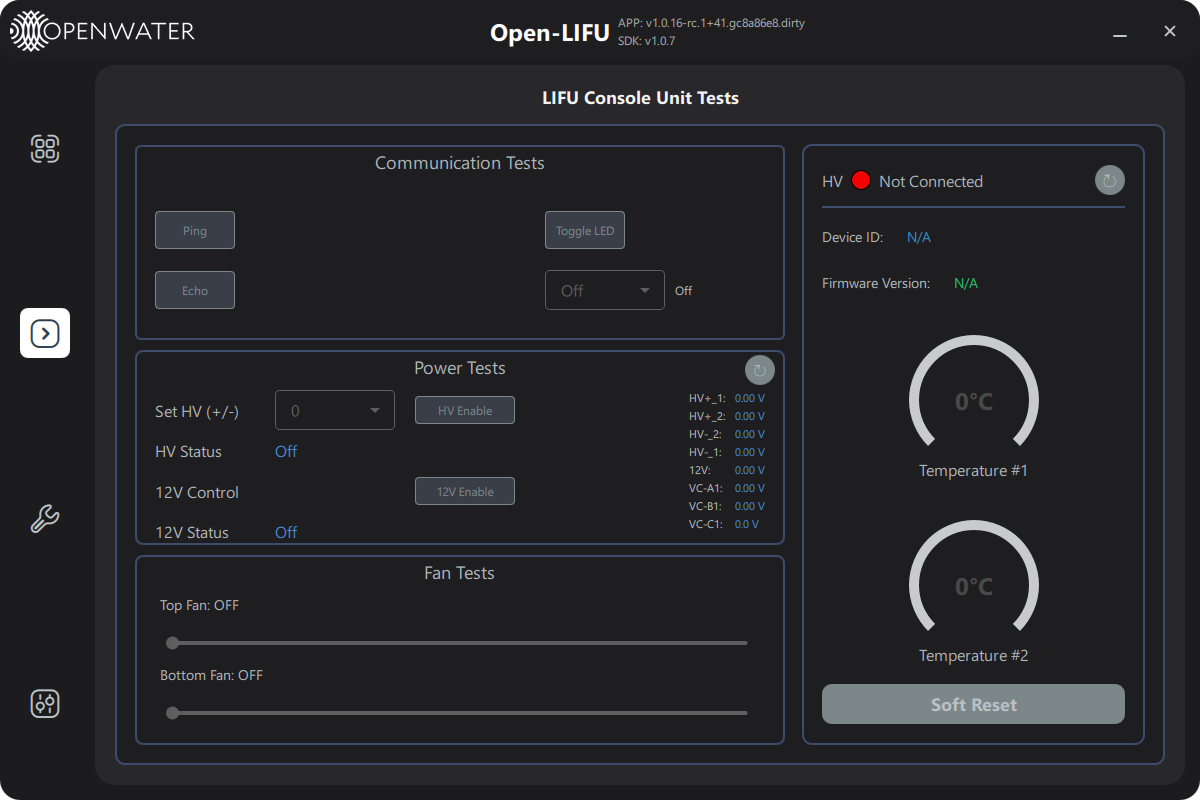
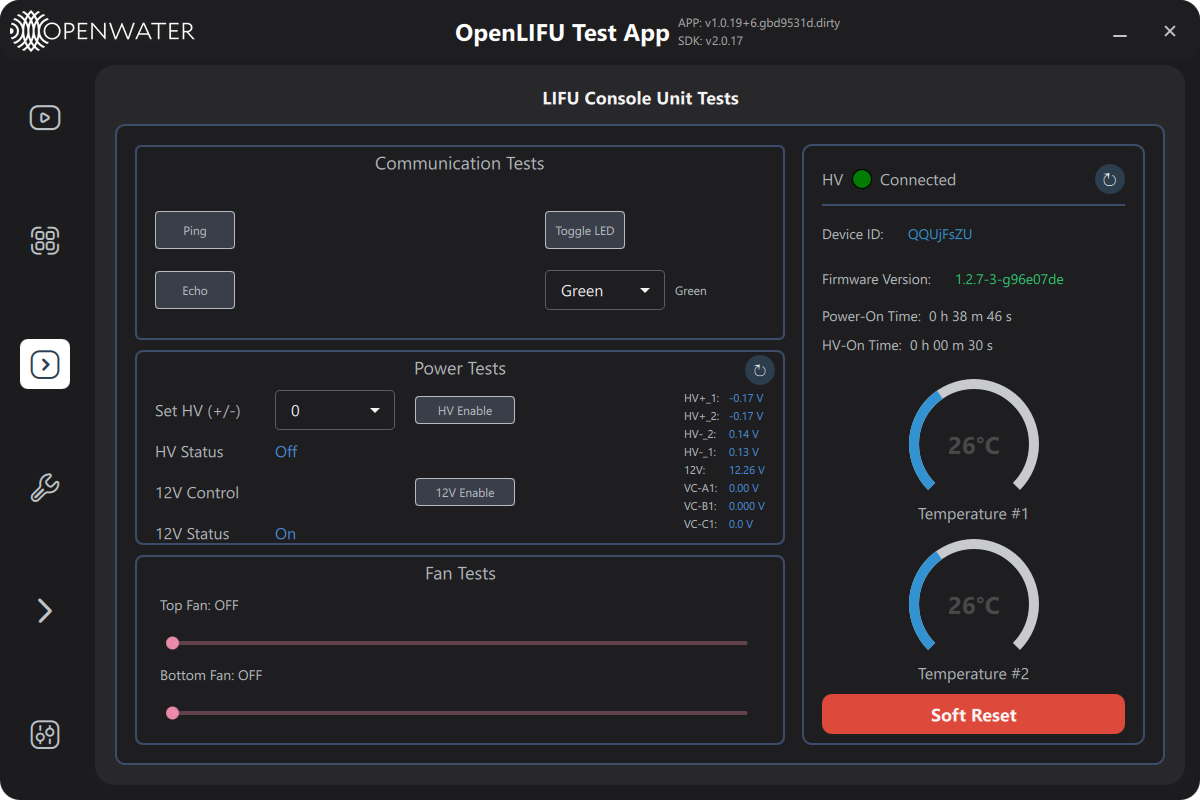
feat(console): show console power-on and HV-on odometer
The Console page's HV panel and the Support page's Hardware Monitor
card now show the console's lifetime Power-On Time and HV-On Time
(HVController.get_odometer(), OW_POWER_GET_ODO). The values are read
on connect, on refresh, and when HV turns on or off. The Console page
ignores the 1 Hz telemetry re-emits of power status, so the odometer
is not polled every second. Both totals are also added to the Support
diagnostics system info and report.

Both pages show N/A when the installed SDK has no get_odometer() or
the console firmware predates the odometer, so older stacks keep
working. The odometer rows on the Console page are plain Text, and
the temperature gauges sit closer together, so the panel still fits.

Closes #51
Refs OpenwaterHealth/openlifu-console-fw#19

diff --git a/pages/Console.qml b/pages/Console.qml
@@ -15,6 +15,8 @@ Rectangle {
     // Properties for dynamic data
     property string firmwareVersion: "N/A"
     property string deviceId: "N/A"
+    property string powerOnTime: "N/A"
+    property string hvOnTime: "N/A"
     property real temperature1: 0.0
     property real temperature2: 0.0
     property string rgbState: "Off" // Add property for RGB state
@@ -23,6 +25,7 @@ Rectangle {
 
     function updateStates() {
         LIFUConnector.queryHvInfo()
+        LIFUConnector.queryHvOdometer()
         LIFUConnector.queryHvTemperature()
         LIFUConnector.queryPowerStatus() // Query power status
         LIFUConnector.queryRGBState() // Query RGB state
@@ -55,6 +58,8 @@ Rectangle {
             } else {
                 firmwareVersion = "N/A"
                 deviceId = "N/A"
+                powerOnTime = "N/A"
+                hvOnTime = "N/A"
                 temperature1 = 0.0
                 temperature2 = 0.0
                 rgbState = "Off" // Reset RGB state
@@ -74,6 +79,12 @@ Rectangle {
             deviceId = devId
         }
 
+        // Handle odometer response
+        function onHvOdometerReceived(powerOn, hvOn) {
+            powerOnTime = powerOn
+            hvOnTime = hvOn
+        }
+
         // Handle temperature updates
         function onTemperatureHvUpdated(temp1, temp2) {
             temperature1 = temp1
@@ -82,6 +93,9 @@ Rectangle {
 
         // Handle voltage state updates
         function onPowerStatusReceived(v12_state, hv_state) {
+            // Also fires on the 1 Hz telemetry poll; only an HV flip moves the odometer.
+            var hvChanged = (hv_state ? "On" : "Off") !== hvState
+
             if(hv_state)
                 hvState = "On"
             else
@@ -94,6 +108,8 @@ Rectangle {
 
             hvStatus.text = hvState // Update the UI with the new voltage state
             v12Status.text = v12State
+            if (hvChanged)
+                LIFUConnector.queryHvOdometer() // HV-on time moves with the HV state
         }
 
         // Handle voltage readings updates
@@ -892,6 +908,7 @@ Rectangle {
                                     onClicked: {
                                         console.log("Manual Refresh Triggered")
                                         LIFUConnector.queryHvInfo()
+                                        LIFUConnector.queryHvOdometer()
                                         LIFUConnector.queryHvTemperature()
                                     }
 
@@ -942,10 +959,24 @@ Rectangle {
                             }
                         }
 
+                        // Display lifetime odometer (from the console firmware).
+                        // Plain Text keeps these rows short so the panel still fits.
+                        RowLayout {
+                            spacing: 8
+                            Text { text: "Power-On Time:"; color: "#BDC3C7"; font.pixelSize: 14 }
+                            Text { text: powerOnTime; color: "#BDC3C7"; font.pixelSize: 14 }
+                        }
+
+                        RowLayout {
+                            spacing: 8
+                            Text { text: "HV-On Time:"; color: "#BDC3C7"; font.pixelSize: 14 }
+                            Text { text: hvOnTime; color: "#BDC3C7"; font.pixelSize: 14 }
+                        }
+
 
                         ColumnLayout {
                             Layout.alignment: Qt.AlignHCenter 
-                            spacing: 25  
+                            spacing: 0  // tight so the odometer rows above still fit
 
                             // TEMP #1 Widget
                             TemperatureWidget {

diff --git a/pages/Support.qml b/pages/Support.qml
@@ -56,6 +56,8 @@ Rectangle {
     // ── State ─────────────────────────────────────────────────────────
     property string hvFwVersion:   "—"
     property string hvDeviceId:    "—"
+    property string hvPowerOnTime: "—"
+    property string hvHvOnTime:    "—"
     property real   hvTemp1:       0.0
     property real   hvTemp2:       0.0
     property bool   hvTempsReceived: false
@@ -89,6 +91,7 @@ Rectangle {
         onTriggered: {
             if (LIFUConnector.hvConnected) {
                 LIFUConnector.queryHvInfo()
+                LIFUConnector.queryHvOdometer()
                 LIFUConnector.queryHvTemperature()
                 LIFUConnector.getMonitorVoltages()
                 supportPage.diagnosticsJson = LIFUSupportConnector.collectDiagnostics()
@@ -124,6 +127,7 @@ Rectangle {
         refreshing = true
         if (LIFUConnector.hvConnected) {
             LIFUConnector.queryHvInfo()
+            LIFUConnector.queryHvOdometer()
             LIFUConnector.queryHvTemperature()
             LIFUConnector.getMonitorVoltages()
         }
@@ -143,6 +147,10 @@ Rectangle {
         function onHvDeviceInfoReceived(fwVersion, deviceId) {
             supportPage.hvFwVersion = fwVersion
             supportPage.hvDeviceId  = deviceId
+        }
+        function onHvOdometerReceived(powerOn, hvOn) {
+            supportPage.hvPowerOnTime = powerOn
+            supportPage.hvHvOnTime    = hvOn
         }
         function onTxDeviceInfoReceived(modulesList) {
             supportPage.txModules = modulesList.map(function(m) {
@@ -176,6 +184,8 @@ Rectangle {
                 hvQueryTimer.stop()
                 supportPage.hvFwVersion = "—"
                 supportPage.hvDeviceId  = "—"
+                supportPage.hvPowerOnTime = "—"
+                supportPage.hvHvOnTime  = "—"
                 supportPage.hvTemp1     = 0.0
                 supportPage.hvTemp2     = 0.0
                 supportPage.hvTempsReceived = false
@@ -473,6 +483,8 @@ Rectangle {
 
                                 InfoRow { label: "Firmware Version"; value: supportPage.hvFwVersion; valueColor: "#4A90E2" }
                                 InfoRow { label: "Device ID";        value: supportPage.hvDeviceId;  valueColor: "#BDC3C7" }
+                                InfoRow { label: "Power-On Time";    value: supportPage.hvPowerOnTime; valueColor: "#BDC3C7" }
+                                InfoRow { label: "HV-On Time";       value: supportPage.hvHvOnTime;    valueColor: "#BDC3C7" }
                             }
 
                             Rectangle { Layout.fillWidth: true; height: 1; color: "#3E4E6F"; Layout.leftMargin: 16; Layout.rightMargin: 16 }

diff --git a/tests/test_console_odometer.py b/tests/test_console_odometer.py
@@ -1,0 +1,78 @@
+"""Console odometer readout: formatting, old-SDK/old-firmware fallbacks, and
+the ``queryHvOdometer`` slot's signal contract with the Console page."""
+
+from types import SimpleNamespace
+from unittest.mock import MagicMock
+
+import pytest
+
+from openlifu_sdk.io.exceptions import LIFUDeviceError
+
+from lifu.lifu_console import ConsoleMixin, format_duration, read_console_odometer
+from lifu.lifu_support import LIFUSupportConnector
+
+
+@pytest.mark.parametrize("seconds, text", [
+    (0, "0 h 00 m 00 s"),
+    (59, "0 h 00 m 59 s"),
+    (3661, "1 h 01 m 01 s"),
+    (1234 * 3600 + 5 * 60 + 9, "1,234 h 05 m 09 s"),
+])
+def test_format_duration(seconds, text):
+    assert format_duration(seconds) == text
+
+
+def test_read_console_odometer_without_sdk_support_returns_none():
+    # SDKs before the odometer have no HVController.get_odometer().
+    assert read_console_odometer(SimpleNamespace()) is None
+
+
+class _Host(ConsoleMixin):
+    """The bits of LIFUConnector that queryHvOdometer relies on."""
+
+    def __init__(self, hv):
+        self.interface = SimpleNamespace(hvcontroller=hv)
+        self._interface_mutex = MagicMock()
+        self.hvOdometerReceived = MagicMock()
+
+
+def test_query_emits_formatted_totals():
+    hv = SimpleNamespace(get_odometer=lambda: SimpleNamespace(power_on_s=7261, hv_on_s=30))
+    host = _Host(hv)
+    host.queryHvOdometer()
+    host.hvOdometerReceived.emit.assert_called_once_with("2 h 01 m 01 s", "0 h 00 m 30 s")
+    host._interface_mutex.unlock.assert_called_once()
+
+
+@pytest.mark.parametrize("hv", [
+    SimpleNamespace(get_odometer=lambda: None),  # firmware predates the odometer
+    SimpleNamespace(),                           # SDK predates the odometer
+])
+def test_query_emits_na_when_unsupported(hv):
+    host = _Host(hv)
+    host.queryHvOdometer()
+    host.hvOdometerReceived.emit.assert_called_once_with("N/A", "N/A")
+    host._interface_mutex.unlock.assert_called_once()
+
+
+def test_query_device_error_is_logged_not_emitted():
+    def _fail():
+        raise LIFUDeviceError("HV: get_odometer returned device error")
+
+    host = _Host(SimpleNamespace(get_odometer=_fail))
+    host.queryHvOdometer()
+    host.hvOdometerReceived.emit.assert_not_called()
+    host._interface_mutex.unlock.assert_called_once()
+
+
+def test_support_report_lists_odometer_rows():
+    sysinfo = {"console": {"firmware_version": "1.2.8", "power_on_s": 7261, "hv_on_s": 30}}
+    html = LIFUSupportConnector._build_report_html("2026-10-19 12:00:00", {}, sysinfo)
+    assert "HV Power-On Time" in html and "2 h 01 m 01 s" in html
+    assert "HV-On Time" in html and "0 h 00 m 30 s" in html
+
+
+def test_support_report_omits_odometer_rows_when_unsupported():
+    html = LIFUSupportConnector._build_report_html(
+        "2026-10-19 12:00:00", {}, {"console": {"firmware_version": "1.2.7"}})
+    assert "Power-On Time" not in html

diff --git a/lifu/lifu_console.py b/lifu/lifu_console.py
@@ -23,7 +23,23 @@ from openlifu_sdk.io.LIFUConfig import HW_ID_DATA_LENGTH
 
 logger = logging.getLogger(__name__)
 
-__all__ = ["ConsoleMixin"]
+__all__ = ["ConsoleMixin", "format_duration", "read_console_odometer"]
+
+
+def format_duration(seconds: int) -> str:
+    """Render an odometer total as ``"H h MM m SS s"`` (hours unbounded)."""
+    hours, rem = divmod(int(seconds), 3600)
+    minutes, secs = divmod(rem, 60)
+    return f"{hours:,} h {minutes:02d} m {secs:02d} s"
+
+
+def read_console_odometer(hv):
+    """Return the console's ``ConsoleOdometer``, or None when the installed
+    SDK (no ``get_odometer``) or the console firmware predates the odometer."""
+    get_odometer = getattr(hv, "get_odometer", None)
+    if get_odometer is None:
+        return None
+    return get_odometer()
 
 
 class ConsoleMixin:
@@ -60,6 +76,28 @@ class ConsoleMixin:
             self._handle_lifu_error("Console Info", e)
         except Exception as e:
             self._handle_lifu_error("Console Info", e, context="Unexpected error")
+        finally:
+            self._interface_mutex.unlock()
+
+    @pyqtSlot()
+    def queryHvOdometer(self):
+        """Fetch and emit the console's lifetime power-on / HV-on time.
+        Not cached: the totals advance while the console runs. Emits "N/A"
+        for both when the SDK or the console firmware predates the odometer."""
+        self._interface_mutex.lock()
+        try:
+            odo = read_console_odometer(self.interface.hvcontroller)
+            if odo is None:
+                self.hvOdometerReceived.emit("N/A", "N/A")
+                return
+            self.hvOdometerReceived.emit(format_duration(odo.power_on_s),
+                                         format_duration(odo.hv_on_s))
+            logger.info(f"Console odometer - power-on: {odo.power_on_s} s, HV-on: {odo.hv_on_s} s")
+        except LIFUError as e:
+            # Refreshed on page load and HV toggles; log only, like temperatures.
+            logger.warning(f"Failed to read console odometer: {e}")
+        except Exception as e:
+            logger.error(f"Error querying console odometer: {e}")
         finally:
             self._interface_mutex.unlock()
 

diff --git a/lifu/lifu_support.py b/lifu/lifu_support.py
@@ -21,6 +21,8 @@ import time
 
 from PyQt6.QtCore import QObject, QStandardPaths, QThread, pyqtSignal, pyqtSlot, pyqtProperty
 
+from lifu.lifu_console import format_duration, read_console_odometer
+
 logger = logging.getLogger(__name__)
 
 # Scratch key used by the user-config diagnostic tests. Written to the device
@@ -134,6 +136,13 @@ class _DiagnosticThread(QThread):
             pass
         try:
             hv_info["hardware_id"] = iface.hvcontroller.get_hardware_id(raw_hex=True)
+        except Exception:
+            pass
+        try:
+            odo = read_console_odometer(iface.hvcontroller)
+            if odo is not None:
+                hv_info["power_on_s"] = odo.power_on_s
+                hv_info["hv_on_s"] = odo.hv_on_s
         except Exception:
             pass
         if hv_info:
@@ -700,6 +709,13 @@ class LIFUSupportConnector(QObject):
                 hv_info["hardware_id"] = self._interface.hvcontroller.get_hardware_id(raw_hex=True)
             except Exception as exc:
                 hv_info["hardware_id_error"] = str(exc)
+            try:
+                odo = read_console_odometer(self._interface.hvcontroller)
+                if odo is not None:
+                    hv_info["power_on_s"] = odo.power_on_s
+                    hv_info["hv_on_s"] = odo.hv_on_s
+            except Exception as exc:
+                hv_info["odometer_error"] = str(exc)
             if hv_info:
                 info["console"] = hv_info
 
@@ -857,6 +873,9 @@ class LIFUSupportConnector(QObject):
             si_rows += _si_row("HV Firmware", console_info["firmware_version"])
         if console_info.get("hardware_id"):
             si_rows += _si_row("HV Hardware ID", console_info["hardware_id"])
+        if console_info.get("power_on_s") is not None:
+            si_rows += _si_row("HV Power-On Time", format_duration(console_info["power_on_s"]))
+            si_rows += _si_row("HV-On Time", format_duration(console_info["hv_on_s"]))
         tx_info = sysinfo.get("transmitter", {})
         if tx_info.get("module_count") is not None:
             si_rows += _si_row("TX Module Count", tx_info["module_count"])

diff --git a/lifu/lifu_connector.py b/lifu/lifu_connector.py
@@ -134,6 +134,7 @@ class LIFUConnector(TestingMixin, SettingsMixin, ConsoleMixin, TransmitterMixin,
 
     # New Signals for data updates
     hvDeviceInfoReceived = pyqtSignal(str, str)  # (firmwareVersion, deviceId)
+    hvOdometerReceived = pyqtSignal(str, str)  # (powerOnTime, hvOnTime), "N/A" when unsupported
     monVoltagesReceived = pyqtSignal(list)  # Signal for voltage monitor readings
     txDeviceInfoReceived = pyqtSignal('QVariantList')  # list of {module, firmwareVersion, deviceId}
     temperatureHvUpdated = pyqtSignal(float, float)  # (temp1, temp2)

diff --git a/docs/console-page-user-guide.md b/docs/console-page-user-guide.md
@@ -54,7 +54,7 @@ showing device info and live temperatures.
 |--------|---------|
 | **Left — Communication Tests** | Ping, Echo, Toggle LED, RGB LED |
 | **Left — Power Tests** | HV setpoint + enable, 12 V enable, monitored rail readings |
-| **Right** | HV connection LED, Device ID, Firmware Version, two on-board temperature widgets |
+| **Right** | HV connection LED, Device ID, Firmware Version, Power-On / HV-On Time, two on-board temperature widgets |
 
 ---
 
@@ -128,11 +128,17 @@ re-poll all eight channels immediately.
 | **HV** indicator | Green = connected, Red = not connected |
 | **Device ID** | Unique hardware identifier reported by the firmware |
 | **Firmware Version** | Reported by the firmware over USB |
+| **Power-On Time** | Lifetime time the console firmware has been running (odometer kept by the console) |
+| **HV-On Time** | Lifetime time the high-voltage supply has been enabled |
 | **Temperature #1 / #2** | Live readings from the two on-board temperature sensors, °C |
 
 Click the **↻** button to re-query device info and temperatures
 manually. Otherwise the values are fetched once on connect (after a
-~500 ms settle delay) and on every refresh.
+~500 ms settle delay) and on every refresh. The two odometer times are
+also re-read whenever HV turns on or off. They show `N/A` when the
+console firmware or the installed SDK predates the odometer. The console
+saves them to flash every 10 minutes and on HV-off / disconnect, so a
+sudden power loss can drop up to the last 10 minutes.
 
 ---
 

diff --git a/docs/support-page-user-guide.md b/docs/support-page-user-guide.md
@@ -67,6 +67,7 @@ The left card shows information for the connected Console board.
 
 - **Firmware Version** — Reported by the device over USB.
 - **Device ID** — Unique hardware identifier.
+- **Power-On Time / HV-On Time** — Lifetime odometer kept by the Console: how long the firmware has been running and how long the high-voltage supply has been enabled. Shows `N/A` on firmware or SDK versions without the odometer. Both values are also included in the diagnostics report.
 - **Power Status** — Green/red badges indicate whether the 12 V rail and the high-voltage rail are currently active.
 - **Temperatures** — Two on-board temperature sensor readings in °C, updated automatically on connect and on each Refresh.
 - **Monitor Voltages** — Eight analogue voltage monitor channels read from the Console:
